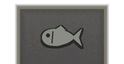
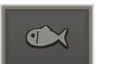
Storage Mage: tab plates match the game's tabs
The game's tab plates are 94 of the texture's 124 pixels wide and start at its
left edge; ours were centred, so the Tool Belt tab sat further from the Quest
tab than the game's tabs sit from each other. Measured in game: every tab lays
out at 64x32 with the same padding, so the fix is in the art. All seven bag
icons redrawn (tools/draw_tab_art.py: plate at x 0, icon centred on the plate).

belttab also copies the last game tab's slot layout onto ours and logs each
tab's size once per screen (dumps/tab.txt), with a test for the copy.

diff --git a/mods/storagemage/tools/draw_tab_art.py b/mods/storagemage/tools/draw_tab_art.py
@@ -35,9 +35,14 @@ COLOURS = {
                             "inner": (118, 98, 64), "grad": ((160, 136, 96), (128, 106, 72)), "alpha": 255,
                             "line": 2.0}},   # the selected tab's gold frame is bolder
 }
-# Plate and icon placement, measured against the game's tabs on screen (2026-11-13): the game's plate is 94 x 60
-# of the 124 x 64 texture, touching the bottom with a gap above; its icon sits a little below the plate's centre.
+# Plate and icon placement, measured against the game's tabs on screen: the plate touches the bottom with a gap
+# above; its icon sits a little below the plate's centre. The game's plate is 94 of the texture's 124 pixels wide
+# and starts at its left edge, the empty part on the right (2026-11-14, measured on rows clear of the icons: the
+# game's plates 58-60 screen px wide, one every 72). Centred, ours sat further from the Quest tab than the game's
+# tabs sit from each other; 106 wide, it looked wider than theirs.
+PLATE_X = 0
 PLATE_W = 94
+PLATE_CX = PLATE_X + PLATE_W / 2   # the icons centre on the plate, not the texture
 PLATE_TOP = 4                   # its edges matched the game's plates in game (2026-11-13)
 # Each icon is fitted by its own outline, so they all match whatever their drawing's extent: measured in game
 # (2026-11-13), the game's icons are about 35 of the texture's 64 pixels tall, up to ~40 wide, centred 36 down.
@@ -51,7 +56,7 @@ ICON_DY = 0
 def P(x, y):
     """Design units -> supersampled pixels."""
     s = H / 64.0
-    return (W / 2 + (x - 32) * ICON_SCALE * s, (32 + (y - 32) * ICON_SCALE + ICON_DY) * s)
+    return (PLATE_CX * SS + (x - 32) * ICON_SCALE * s, (32 + (y - 32) * ICON_SCALE + ICON_DY) * s)
 
 
 def poly(d, pts, fill=255):
@@ -277,7 +282,7 @@ def plate(kind):
     a = p["alpha"]
     small = Image.new("RGBA", (OUT_W, OUT_H), (0, 0, 0, 0))
     px = small.load()
-    x0 = (OUT_W - PLATE_W) / 2
+    x0 = PLATE_X
     x1 = x0 + PLATE_W
     y0, y1 = PLATE_TOP, OUT_H
     (r0, g0, b0), (r1, g1, b1) = p["grad"]
@@ -316,7 +321,7 @@ def fit(mask):
     s = min(ICON_MAX_W * SS / part.width, ICON_MAX_H * SS / part.height)
     part = part.resize((max(1, round(part.width * s)), max(1, round(part.height * s))), Image.LANCZOS)
     out = Image.new("L", (W, H), 0)
-    out.paste(part, (round(W / 2 - part.width / 2), round(ICON_CENTRE_Y * SS - part.height / 2)))
+    out.paste(part, (round(PLATE_CX * SS - part.width / 2), round(ICON_CENTRE_Y * SS - part.height / 2)))
     return out
 
 
